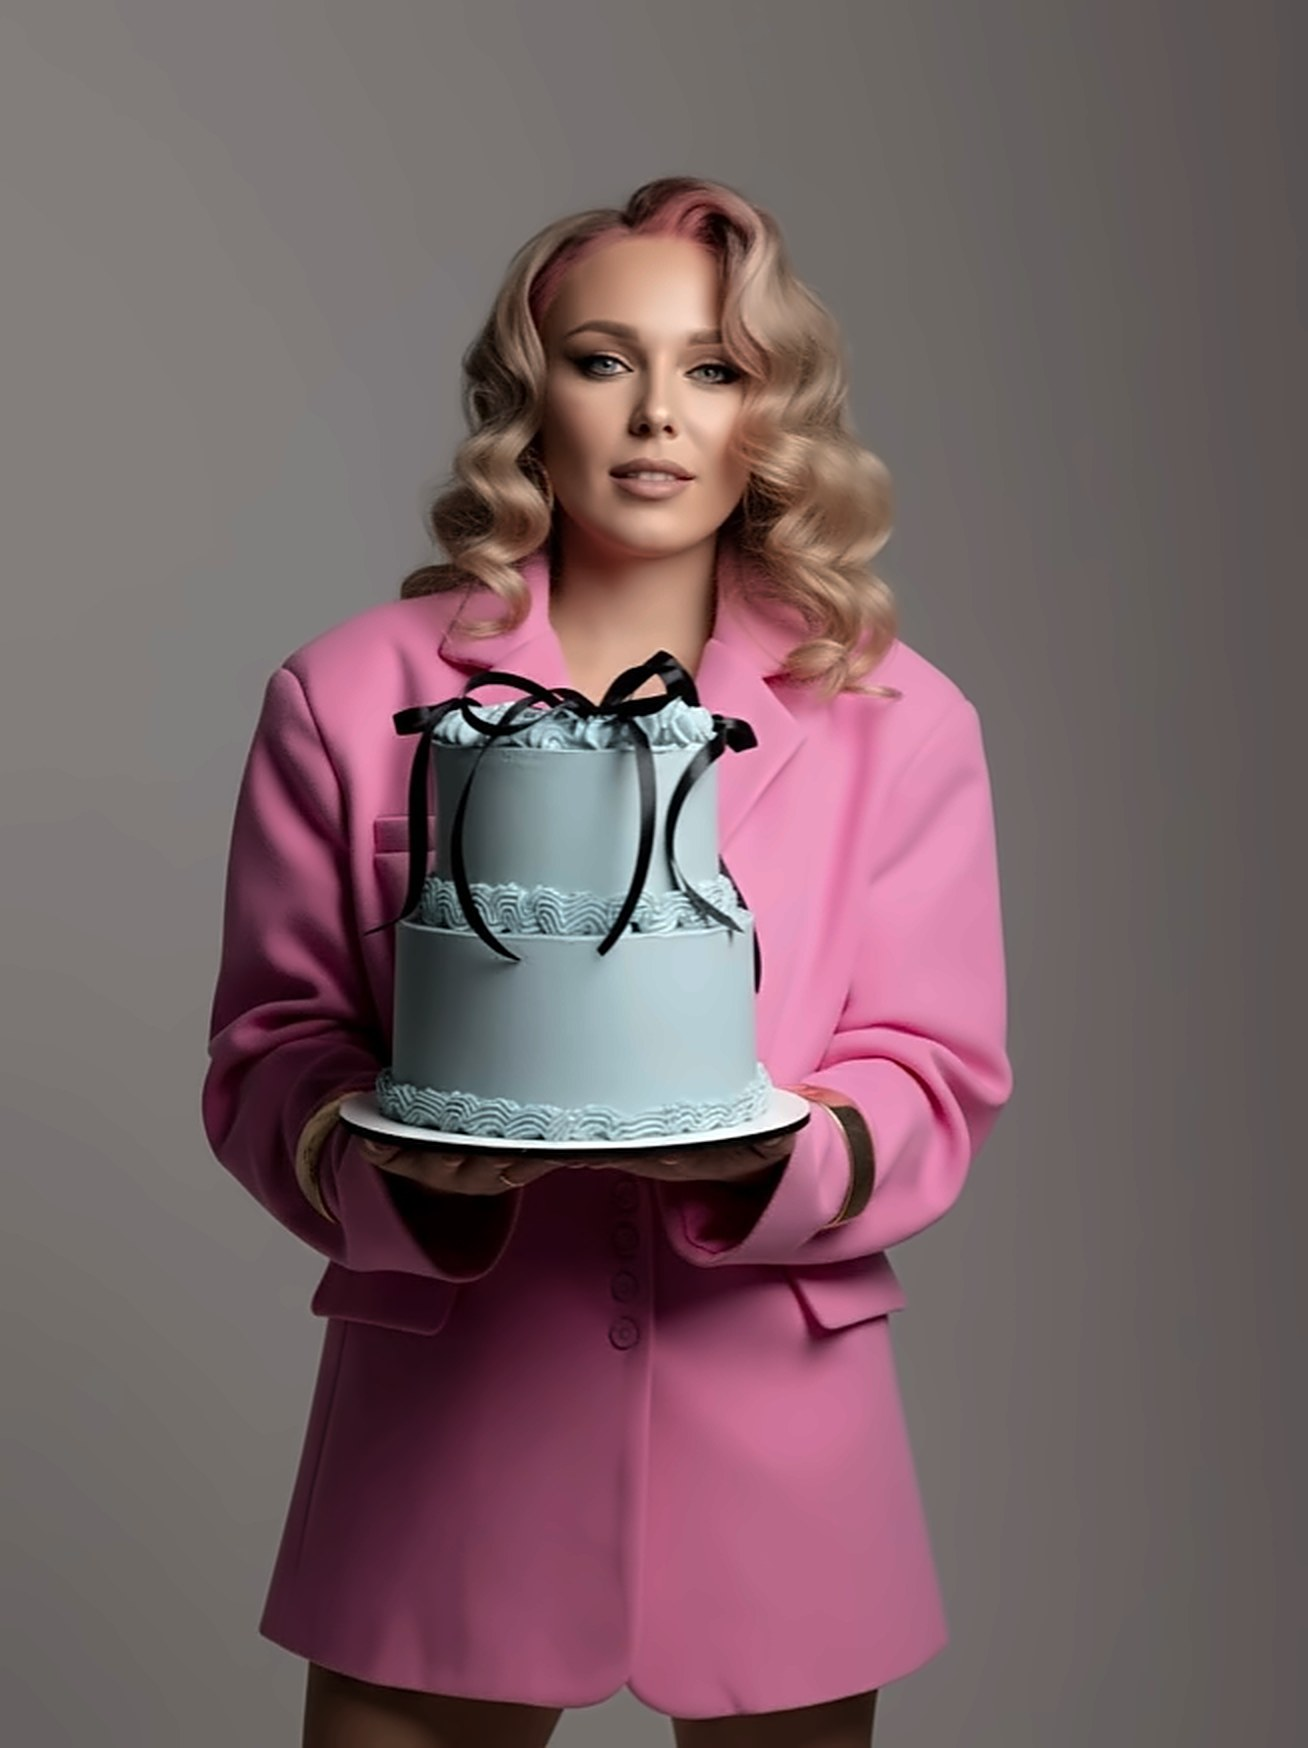
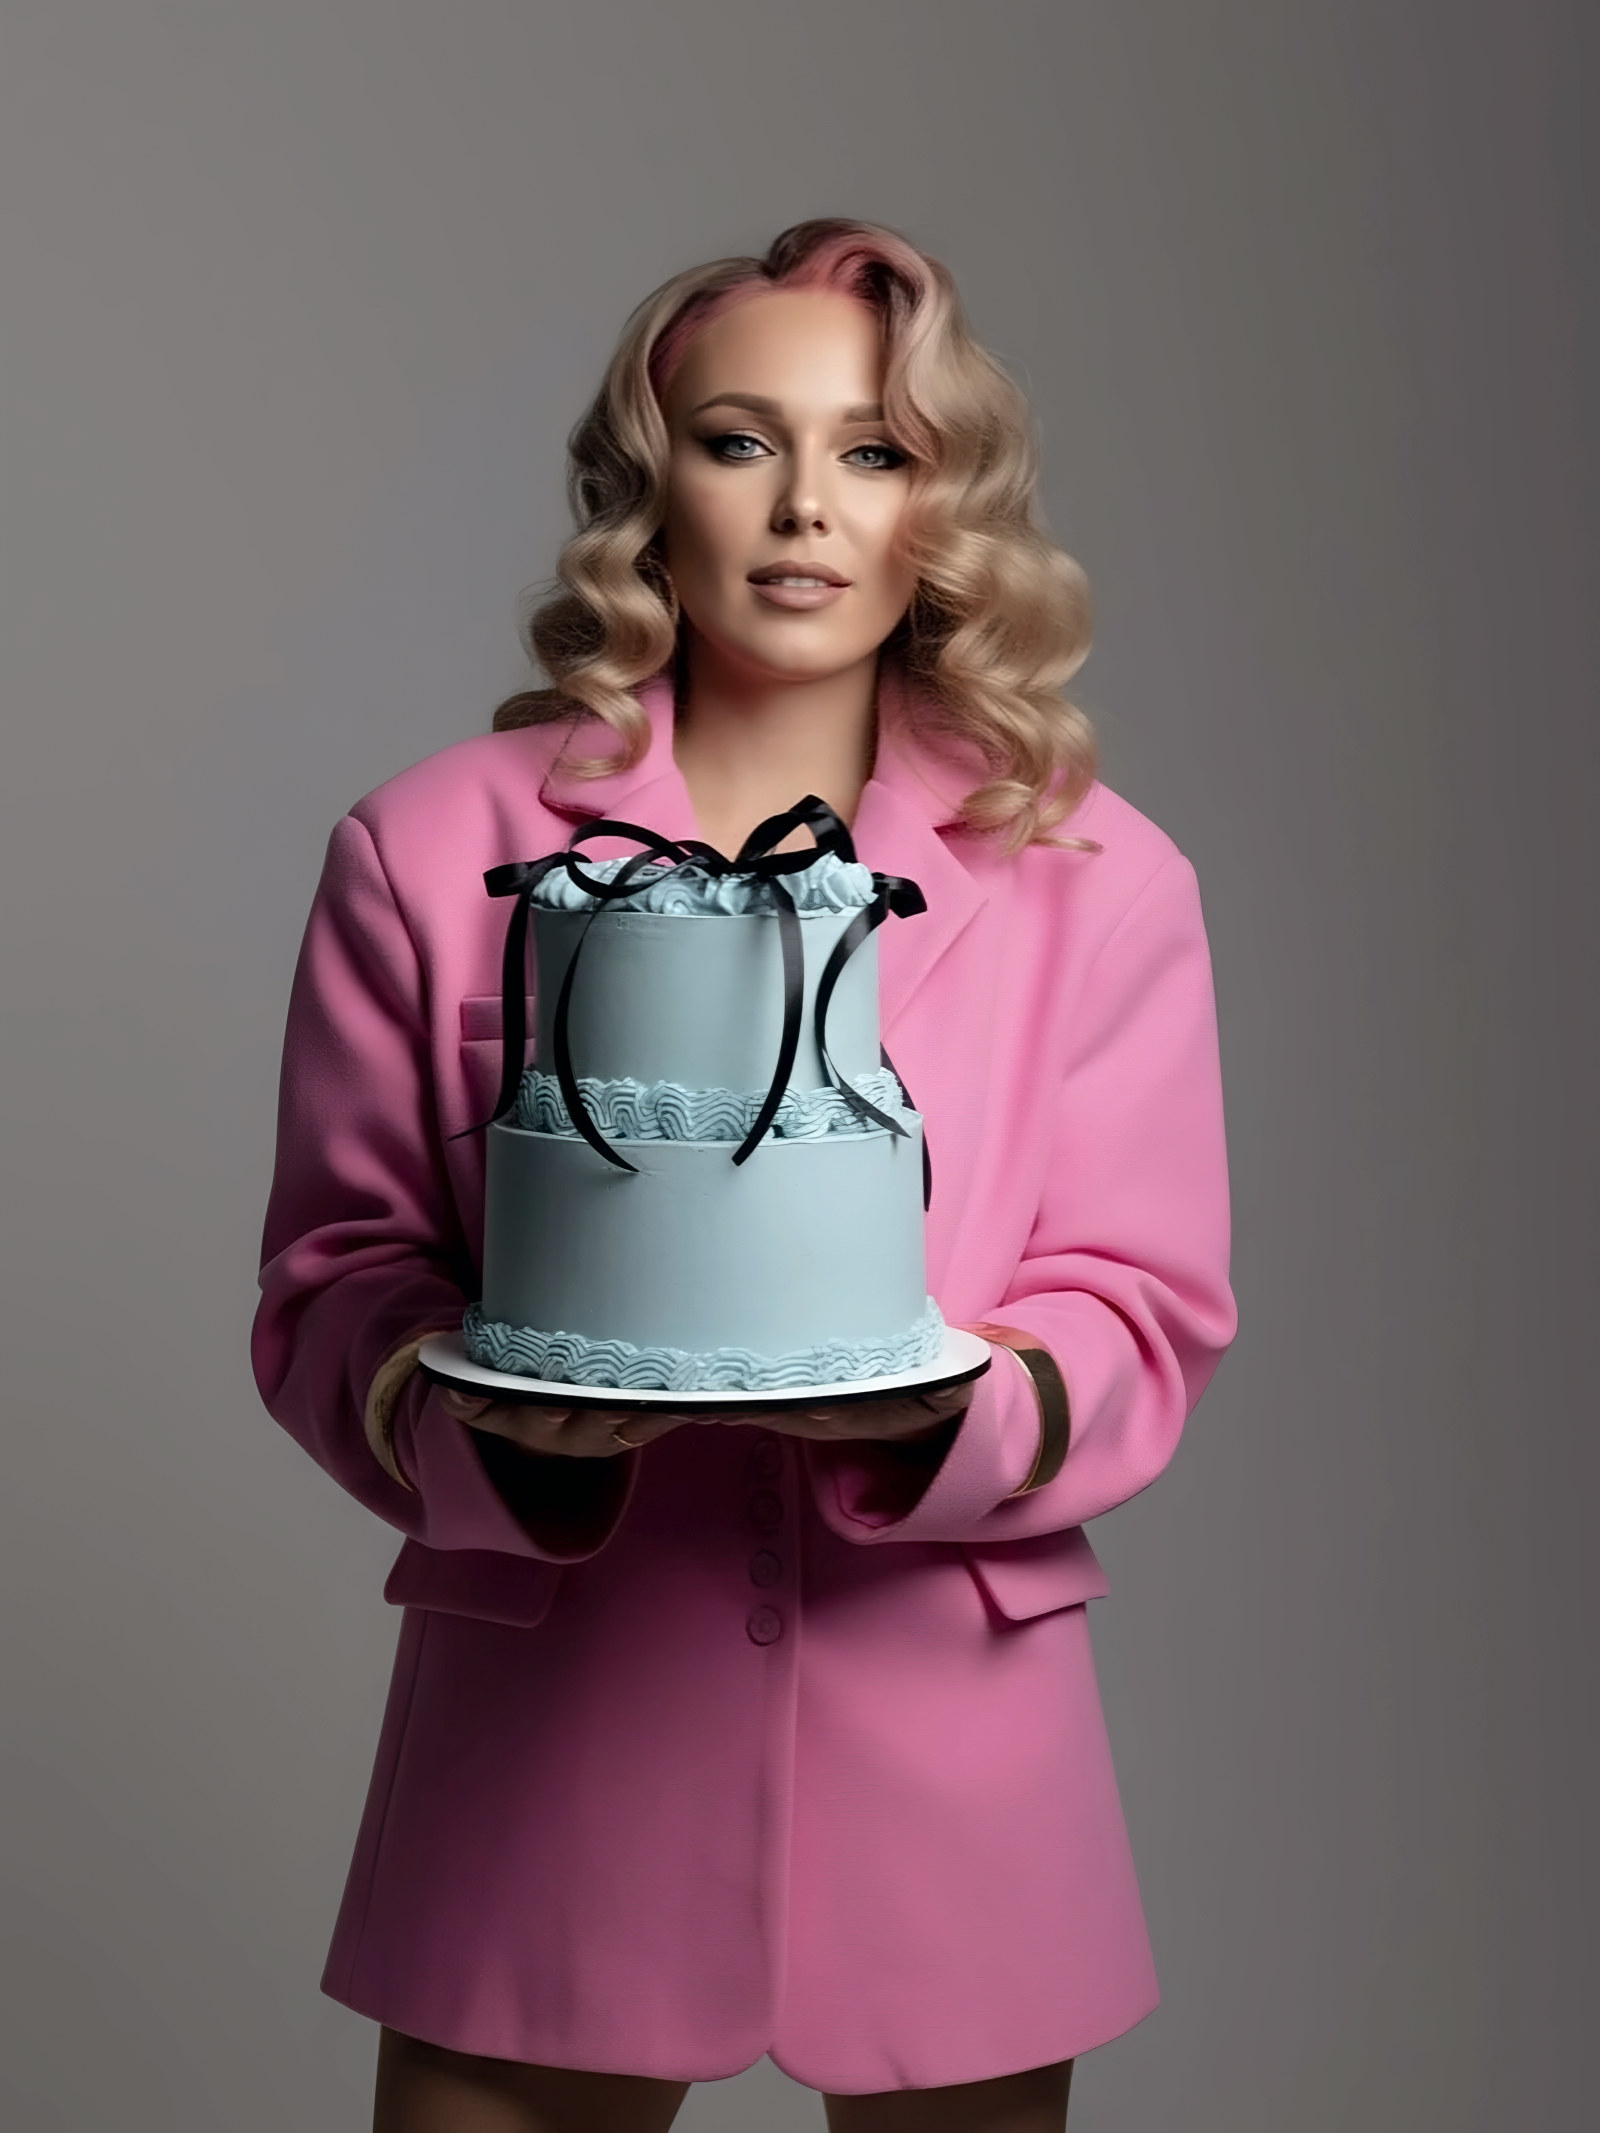
Чёткое фото Марины на первом экране

diff --git a/index.html b/index.html
@@ -50,7 +50,7 @@
     <section class="hero">
       <div class="hero__stage">
         <!-- ?v= — как photoVersion в data.js: заменили фото — увеличьте число -->
-        <img class="hero__photo" src="images/marina-hero.jpg?v=9" alt="Кондитер Марина с тортом" fetchpriority="high" decoding="async">
+        <img class="hero__photo" src="images/marina-hero.jpg?v=10" alt="Кондитер Марина с тортом" fetchpriority="high" decoding="async">
         <div class="hero__shade" aria-hidden="true"></div>
         <div class="container hero__content">
           <p class="hero__eyebrow">Кондитер Марина · Электросталь</p>

diff --git a/styles.css b/styles.css
@@ -739,7 +739,7 @@ textarea.input { resize: vertical; }
 @media (min-width: 901px) {
   .hero__stage {
     --hero-h: clamp(600px, 88vh, 820px);
-    --photo-w: calc(var(--hero-h) * 0.7483);
+    --photo-w: calc(var(--hero-h) * 0.75);
     height: var(--hero-h); min-height: 0;
     align-items: center;
     background:
